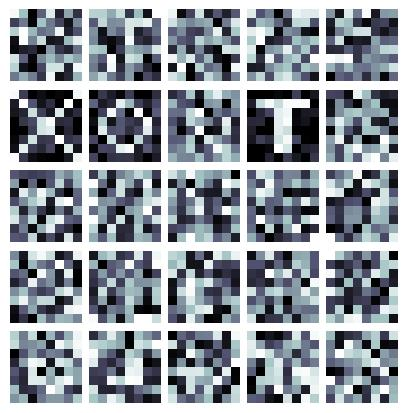
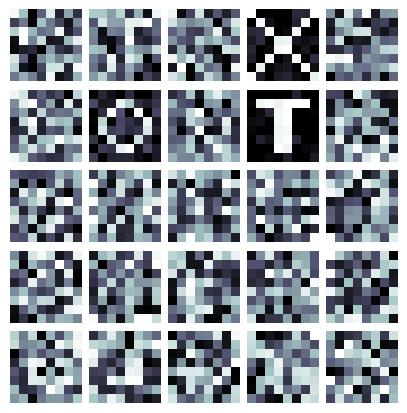
fixed bug introduced by new weight inits

diff --git a/ngclearn/components/lava/neurons/LIFCell.py b/ngclearn/components/lava/neurons/LIFCell.py
@@ -92,8 +92,8 @@ class LIFCell(Component): ## Lava-compliant leaky integrate-and-fire cell
         else:
             if self.thr_theta_init is None:
                 info(self.name, "is using default threshold variable initializer!")
-                self.weight_init = {"dist": "constant", "value": 0.}
-            thr_theta0 = initialize_params(None, self.weight_init, (1, self.n_units))
+                self.thr_theta_init = {"dist": "constant", "value": 0.}
+            thr_theta0 = initialize_params(None, self.thr_theta_init, (1, self.n_units))
             self._init(thr_theta0)
 
     def _init(self, thr_theta0):

diff --git a/ngclearn/utils/weight_distribution.py b/ngclearn/utils/weight_distribution.py
@@ -126,6 +126,9 @@ def initialize_params(dkey, init_kernel, shape, use_numpy=False):
     Returns:
         output (tensor) value
     """
+    if dkey is None:
+        use_numpy = True
+
     _init_kernel = init_kernel
     if _init_kernel is None: ## the "universal default distribution" if None provided
         critical("No initialization kernel provided!")

diff --git a/docs/tutorials/lava/hebbian_learning.md b/docs/tutorials/lava/hebbian_learning.md
@@ -95,7 +95,7 @@ needed to create the necessary model components:
 
 ```python
 #Training Params
-epochs = 30
+epochs = 35
 view_length = 200
 rest_length = 1000
 
@@ -122,7 +122,7 @@ with LavaContext("Model") as model:
     tr1 = GatedTrace("tr1", n_units=n_hid, dt=dt, tau_tr=20.)
 
     W1 = TraceSTDPSynapse("W1", weight_init=dist.uniform(amin=0, amax=0.3), 
-                          shape=(n_in, n_hid), dt=dt, Aplus=0.0055, Aminus=0.00055, 
+                          shape=(n_in, n_hid), dt=dt, Aplus=0.011, Aminus=0.0011, 
                           preTrace_target=0.055)
     W1ie = StaticSynapse("W1ie", weight_init=dist.hollow(120.), 
                          shape=(n_hid, n_hid),dt=dt)
